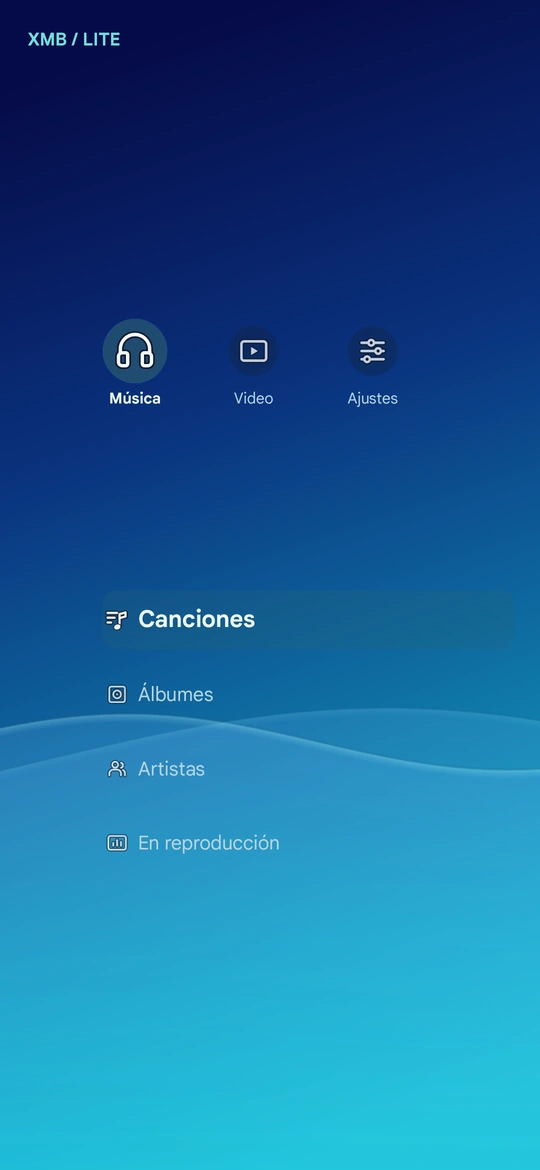
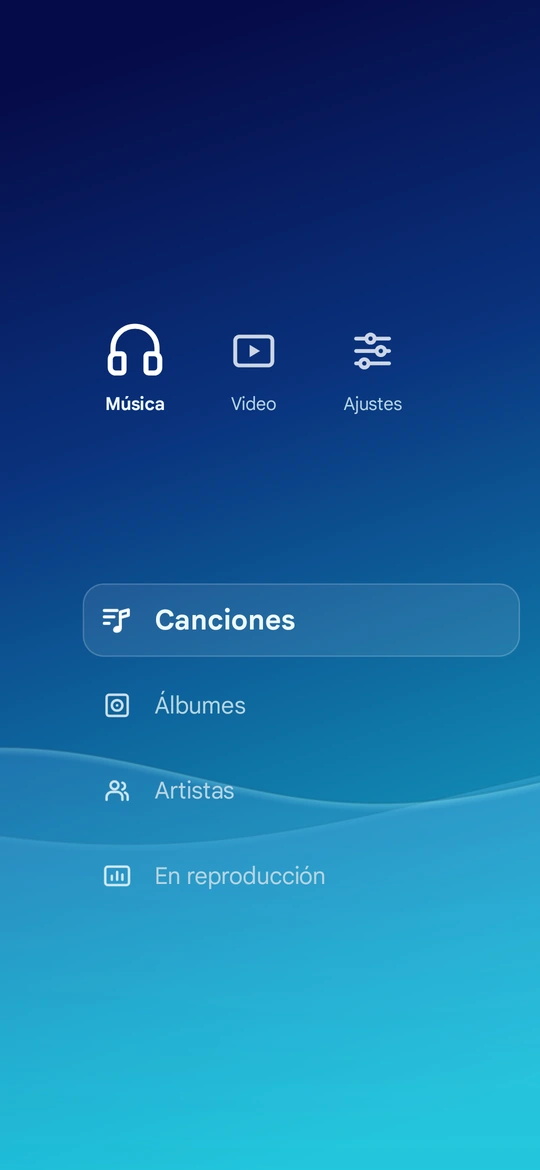
Refine XMB focus styling and refresh menu screenshots

diff --git a/app/src/main/java/com/santiagocsm/xmblite/XmbMenuView.kt b/app/src/main/java/com/santiagocsm/xmblite/XmbMenuView.kt
@@ -76,7 +76,6 @@ internal class XmbMenuView(
     private val white = Color.rgb(239, 248, 250)
     private val muted = Color.rgb(184, 211, 224)
     private val accent = Color.rgb(110, 225, 215)
-    private val highlight = 0x40256375
     private var downX = 0f
     private var downY = 0f
     private var trackingTouch = false
@@ -89,18 +88,18 @@ internal class XmbMenuView(
     private val categoryY get() = height * 0.30f
     private val categoryStep get() = min(width * 0.22f, 104f * density)
     private val rowY get() = height * if (page == Page.PLAYER) 0.69f else 0.53f
-    private val rowStep get() = min(54f * density, height * 0.135f)
-    private val rowLeft get() = anchorX - 24f * density
-    private val rowRight get() = min(width - 12f * density, rowLeft + 300f * density)
+    private val rowStep get() = min(62f * density, height * 0.135f)
+    private val rowLeft get() = (anchorX - 38f * density).coerceAtLeast(10f * density)
+    private val rowRight get() = min(width - 12f * density, anchorX + 280f * density)
     private val listTop get() = when (page) {
-        Page.ROOT -> categoryY + 35f * density
+        Page.ROOT -> categoryY + 48f * density
         Page.PLAYER -> height * 0.52f
         else -> height * 0.30f
     }
     private val progressY get() = height * 0.445f
     private val timeY get() = height * 0.505f
-    private val seekIconY get() = timeY - 4f * density
-    private val seekIconInset get() = 7f * density
+    private val seekIconY get() = timeY - 4.5f * density
+    private val seekIconInset get() = 9f * density
     private val listBottom get() = height - 18f * density
     private val titleX get() = 20f * density
     private val headerY get() = min(33f * density, height * 0.12f)
@@ -206,7 +205,7 @@ internal class XmbMenuView(
     }
 
     private fun title() = when (page) {
-        Page.ROOT -> "XMB / LITE"
+        Page.ROOT -> ""
         Page.APPEARANCE -> "Apariencia"
         Page.EFFECTS -> "Fondo animado"
         Page.MOTION -> "Rendimiento"
@@ -429,22 +428,21 @@ internal class XmbMenuView(
     override fun onDraw(canvas: Canvas) {
         val progress = progress(SystemClock.uptimeMillis())
         if (page == Page.ROOT) {
-            text(canvas, "XMB / LITE", titleX, headerY, 13f, accent, true)
             drawCategories(canvas, categoryPosition(progress))
         } else {
             icons.draw(canvas, XmbIcon.BACK, titleX + 6f * density, headerY - 4.5f * density,
-                14f * density, 235)
-            text(canvas, "Atrás", titleX + 16f * density, headerY, 13f, accent, true)
-            text(canvas, title(), anchorX, height * .28f, 22f, white, true, maxWidth = width - anchorX - 12f * density)
+                17f * density, 235)
+            text(canvas, "Atrás", titleX + 19f * density, headerY, 15f, accent, true)
+            text(canvas, title(), anchorX, height * .28f, 25f, white, true, maxWidth = width - anchorX - 12f * density)
         }
 
         when (page) {
             Page.INFO -> {
-                text(canvas, "XMB Lite Player", anchorX, rowY, 17f, white, true)
-                text(canvas, "Reproductor local · Versión 0.2", anchorX, rowY + 25f * density, 12f, muted)
+                text(canvas, "XMB Lite Player", anchorX, rowY, 20f, white, true)
+                text(canvas, "Reproductor local · Versión 0.2", anchorX, rowY + 28f * density, 14f, muted)
             }
             Page.MEDIA -> {
-                text(canvas, "Reproducción local pendiente", anchorX, rowY, 15f, muted)
+                text(canvas, "Reproducción local pendiente", anchorX, rowY, 17f, muted)
             }
             Page.PLAYER -> {
                 drawPlayer(canvas)
@@ -452,7 +450,7 @@ internal class XmbMenuView(
             }
             else -> {
                 libraryMessage()?.let {
-                    text(canvas, it, anchorX, height * 0.37f, 12f, muted,
+                    text(canvas, it, anchorX, height * 0.37f, 14f, muted,
                         maxWidth = rowRight - anchorX)
                 }
                 drawRows(canvas, rowPosition(progress), if (revealRows) progress else 1f)
@@ -484,10 +482,10 @@ internal class XmbMenuView(
         val width = (rowRight - anchorX).coerceAtLeast(0f)
         val note = playback.message ?: playback.artist
         playback.title?.let {
-            text(canvas, it, anchorX, height * 0.344f, 16f, white, true, maxWidth = width)
+            text(canvas, it, anchorX, height * 0.344f, 19f, white, true, maxWidth = width)
         }
         note?.let {
-            text(canvas, it, anchorX, height * 0.394f, 12f, muted, maxWidth = width)
+            text(canvas, it, anchorX, height * 0.394f, 14f, muted, maxWidth = width)
         }
         val fraction = if (playback.duration > 0) {
             (playback.position.toDouble() / playback.duration).toFloat().coerceIn(0f, 1f)
@@ -498,28 +496,20 @@ internal class XmbMenuView(
         paint.color = accent
         canvas.drawRect(anchorX, progressY, anchorX + width * fraction, progressY + stroke, paint)
         val seekAlpha = if (playback.canSeek && playback.duration > 0) 220 else 114
-        icons.draw(canvas, XmbIcon.REWIND, anchorX + seekIconInset, seekIconY, 15f * density, seekAlpha)
-        icons.draw(canvas, XmbIcon.FAST_FORWARD, rowRight - seekIconInset, seekIconY, 15f * density, seekAlpha)
-        text(canvas, positionLabel, anchorX + 18f * density, timeY, 11f, muted)
-        text(canvas, durationLabel, rowRight - 18f * density, timeY, 11f, muted, align = Paint.Align.RIGHT)
+        icons.draw(canvas, XmbIcon.REWIND, anchorX + seekIconInset, seekIconY, 18f * density, seekAlpha)
+        icons.draw(canvas, XmbIcon.FAST_FORWARD, rowRight - seekIconInset, seekIconY, 18f * density, seekAlpha)
+        text(canvas, positionLabel, anchorX + 22f * density, timeY, 13f, muted)
+        text(canvas, durationLabel, rowRight - 22f * density, timeY, 13f, muted, align = Paint.Align.RIGHT)
     }
 
     private fun drawCategories(canvas: Canvas, position: Float) {
         for (entry in Category.entries) {
             val x = anchorX + (entry.ordinal - position) * categoryStep
             val focus = 1f - abs(entry.ordinal - position).coerceAtMost(1f)
-            paint.color = 0xff11213b.toInt()
-            paint.alpha = (90 + 36 * focus).toInt()
-            canvas.drawCircle(x, categoryY, (18f + 5f * focus) * density, paint)
-            if (focus > 0f) {
-                paint.color = accent
-                paint.alpha = (52 * focus).toInt()
-                canvas.drawCircle(x, categoryY, 23.5f * density, paint)
-            }
-            icons.draw(canvas, entry.icon, x, categoryY, (24f + 8f * focus) * density,
+            icons.draw(canvas, entry.icon, x, categoryY, (36f + 12f * focus) * density,
                 (204 + 51 * focus).toInt())
             val selected = entry.ordinal == category
-            text(canvas, entry.title, x, categoryY + 38f * density, 11f,
+            text(canvas, entry.title, x, categoryY + 43f * density, 13f,
                 if (selected) white else muted, selected, Paint.Align.CENTER)
         }
     }
@@ -568,21 +558,33 @@ internal class XmbMenuView(
             val focus = 1f - abs(index - position).coerceAtMost(1f)
             val enabled = page != Page.PLAYER || transportEnabled(index)
             if (focus > 0f) {
-                paint.color = highlight
-                paint.alpha = (64 * focus).toInt()
-                canvas.drawRoundRect(rowLeft, y - rowStep * .40f, rowRight, y + rowStep * .40f,
-                    10f * density, 10f * density, paint)
+                val halfHeight = rowStep * .43f
+                val radius = min(15f * density, halfHeight)
+                paint.color = Color.WHITE
+                paint.alpha = (22 * focus).toInt()
+                canvas.drawRoundRect(rowLeft, y - halfHeight, rowRight, y + halfHeight, radius, radius, paint)
+
+                val border = density
+                paint.alpha = (44 * focus).toInt()
+                paint.style = Paint.Style.STROKE
+                paint.strokeWidth = border
+                val inset = border * .5f
+                canvas.drawRoundRect(rowLeft + inset, y - halfHeight + inset, rowRight - inset,
+                    y + halfHeight - inset, radius, radius, paint)
+                paint.style = Paint.Style.FILL
             }
             val applied = (page == Page.EFFECTS && index == effectIndex) ||
                 (page == Page.MOTION && index == motionIndex)
             val iconAlpha = if (enabled) (202 + 53 * focus).toInt() else (112 + 20 * focus).toInt()
-            icons.draw(canvas, rowIcon(index), anchorX - 13f * density, y,
-                (17f + 4f * focus) * density, iconAlpha)
-            text(canvas, rowLabel(index), anchorX + 2f * density, y + 5f * density,
-                if (selected) 17f else 14f, if (selected && enabled) white else muted, selected,
-                maxWidth = rowRight - anchorX - (if (applied) 32f else 10f) * density)
+            val textX = rowLeft + 52f * density
+            val iconSize = min((23f + 5f * focus) * density, rowStep * .66f)
+            icons.draw(canvas, rowIcon(index), rowLeft + 25f * density, y, iconSize, iconAlpha)
+            text(canvas, rowLabel(index), textX, y,
+                if (selected) 20f else 17f, if (selected && enabled) white else muted, selected,
+                maxWidth = rowRight - textX - (if (applied) 42f else 16f) * density,
+                centerVertically = true)
             if (applied) {
-                icons.draw(canvas, XmbIcon.APPLIED, rowRight - 12f * density, y, 15f * density, 235)
+                icons.draw(canvas, XmbIcon.APPLIED, rowRight - 24f * density, y, 18f * density, 235)
             }
         }
         canvas.restore()
@@ -590,7 +592,8 @@ internal class XmbMenuView(
 
     private fun text(
         canvas: Canvas, label: String, x: Float, y: Float, size: Float, color: Int,
-        bold: Boolean = false, align: Paint.Align = Paint.Align.LEFT, maxWidth: Float = Float.POSITIVE_INFINITY
+        bold: Boolean = false, align: Paint.Align = Paint.Align.LEFT,
+        maxWidth: Float = Float.POSITIVE_INFINITY, centerVertically: Boolean = false
     ) {
         paint.color = color
         paint.textSize = size * density
@@ -598,7 +601,8 @@ internal class XmbMenuView(
         paint.textAlign = align
         if (maxWidth <= 0f) return
         val visible = if (maxWidth.isFinite()) fittedLabel(label, maxWidth, size, bold) else label
-        canvas.drawText(visible, 0, visible.length, x, y, paint)
+        val baseline = if (centerVertically) y - (paint.ascent() + paint.descent()) * .5f else y
+        canvas.drawText(visible, 0, visible.length, x, baseline, paint)
     }
 
     private fun fittedLabel(label: String, width: Float, size: Float, bold: Boolean): CharSequence {

diff --git a/docs/ICONOGRAPHY.md b/docs/ICONOGRAPHY.md
@@ -14,11 +14,11 @@ PlayStation presentó PSP Theme Toolbox como un conjunto que incluía Custom The
 
 La entrada del blog también menciona categorías cuadradas de 48 × 48 px y da 32 × 32 px con foco de 48 × 48 px para las opciones. La tabla anterior sigue el capítulo 3 de la guía técnica. La guía describe imágenes indexadas con canal alfa y recomienda bordes o gradaciones para distinguir las siluetas en fondos variables. Los ejemplos usan reflejos metálicos, bordes suaves y un halo blanco separado del icono. [PlayStation.Blog, How to Make Your Own PSP Themes](https://blog.playstation.com/?p=596) · [Sony, PSP Custom Theme, caps. 2–4 y 6](https://cdn.us.playstation.com/pscomauth/groups/public/documents/webasset/ps_custom_theme-english_pp.pdf)
 
-La app mantiene esa jerarquía con categorías más grandes, filas compactas y foco discreto. Las formas están dibujadas sobre una retícula común con esquinas redondeadas, trazos claros y un borde oscuro translúcido. Ese borde mantiene la silueta sobre una cresta brillante de la onda. El fondo se ve alrededor de cada figura. El realce usa una placa translúcida y una variación de tamaño y opacidad ligada a la transición existente. Los reflejos complejos, el desenfoque y el pulso continuo se reservan a la referencia histórica.
+La app mantiene esa jerarquía con categorías más grandes, filas compactas y foco discreto. Las formas están dibujadas sobre una retícula común con esquinas redondeadas y geometría blanca. El fondo se ve alrededor de cada figura. El realce usa una capa blanca de baja opacidad con un filo suave y una variación de tamaño y opacidad ligada a la transición existente. Los reflejos complejos, el desenfoque y el pulso continuo se reservan a la referencia histórica.
 
 ## Dibujos y formato
 
-Cada icono se construyó para este proyecto a partir de formas geométricas y trazos propios. Todos usan Android `VectorDrawable` con un viewport de 24 × 24 y dimensiones intrínsecas de 24 dp. La aplicación dibuja categorías de 24 a 32 dp, filas de 17 a 21 dp, y Atrás, la marca de ajuste y la búsqueda a 14–15 dp. Las acciones deshabilitadas conservan su silueta con menor opacidad. Retroceder y Adelantar reutilizan el salto de cinco segundos del D-pad mediante dos accesos junto a la barra de progreso.
+Cada icono se construyó para este proyecto a partir de formas geométricas y trazos propios. Todos usan Android `VectorDrawable` con un viewport de 24 × 24 y dimensiones intrínsecas de 24 dp. La aplicación dibuja categorías de 36 a 48 dp, filas de hasta 28 dp y los iconos de navegación y búsqueda a 17–18 dp. Las acciones deshabilitadas conservan su silueta con menor opacidad. Retroceder y Adelantar reutilizan el salto de cinco segundos del D-pad mediante dos accesos junto a la barra de progreso.
 
 Los archivos están en [app/src/main/res/drawable](../app/src/main/res/drawable). La vista carga y reutiliza una instancia por icono, conserva sus límites y ajusta su escala con Canvas. La familia de iconos prescinde de dependencias nuevas y recursos rasterizados en el APK. Las capturas se guardan aparte, en documentación.
 
@@ -39,7 +39,7 @@ Los 23 vectores originales se distribuyen bajo [MIT](../app/src/main/assets/lice
 
 ## Capturas y validación
 
-Las capturas se tomaron en un Redmi 9T (ARM64, Android 16). Los paneles reúnen capturas reales redimensionadas y usan pistas sintéticas. Se revisaron la jerarquía de categorías y opciones, la legibilidad sobre los dos fondos, el icono de ajuste aplicado y los estados del reproductor. Anterior aparece atenuado al comienzo de la cola.
+Las dos capturas de Música muestran el menú actual en un Redmi 9T (ARM64, Android 16). Los paneles de menús y reproducción documentan la primera integración de la familia con capturas redimensionadas y pistas sintéticas. Se revisaron la jerarquía de categorías y opciones, la legibilidad sobre los dos fondos, el icono de ajuste aplicado y los estados del reproductor. Anterior aparece atenuado al comienzo de la cola.
 
 | Música con ondas azules | Música con onda violeta |
 | --- | --- |
